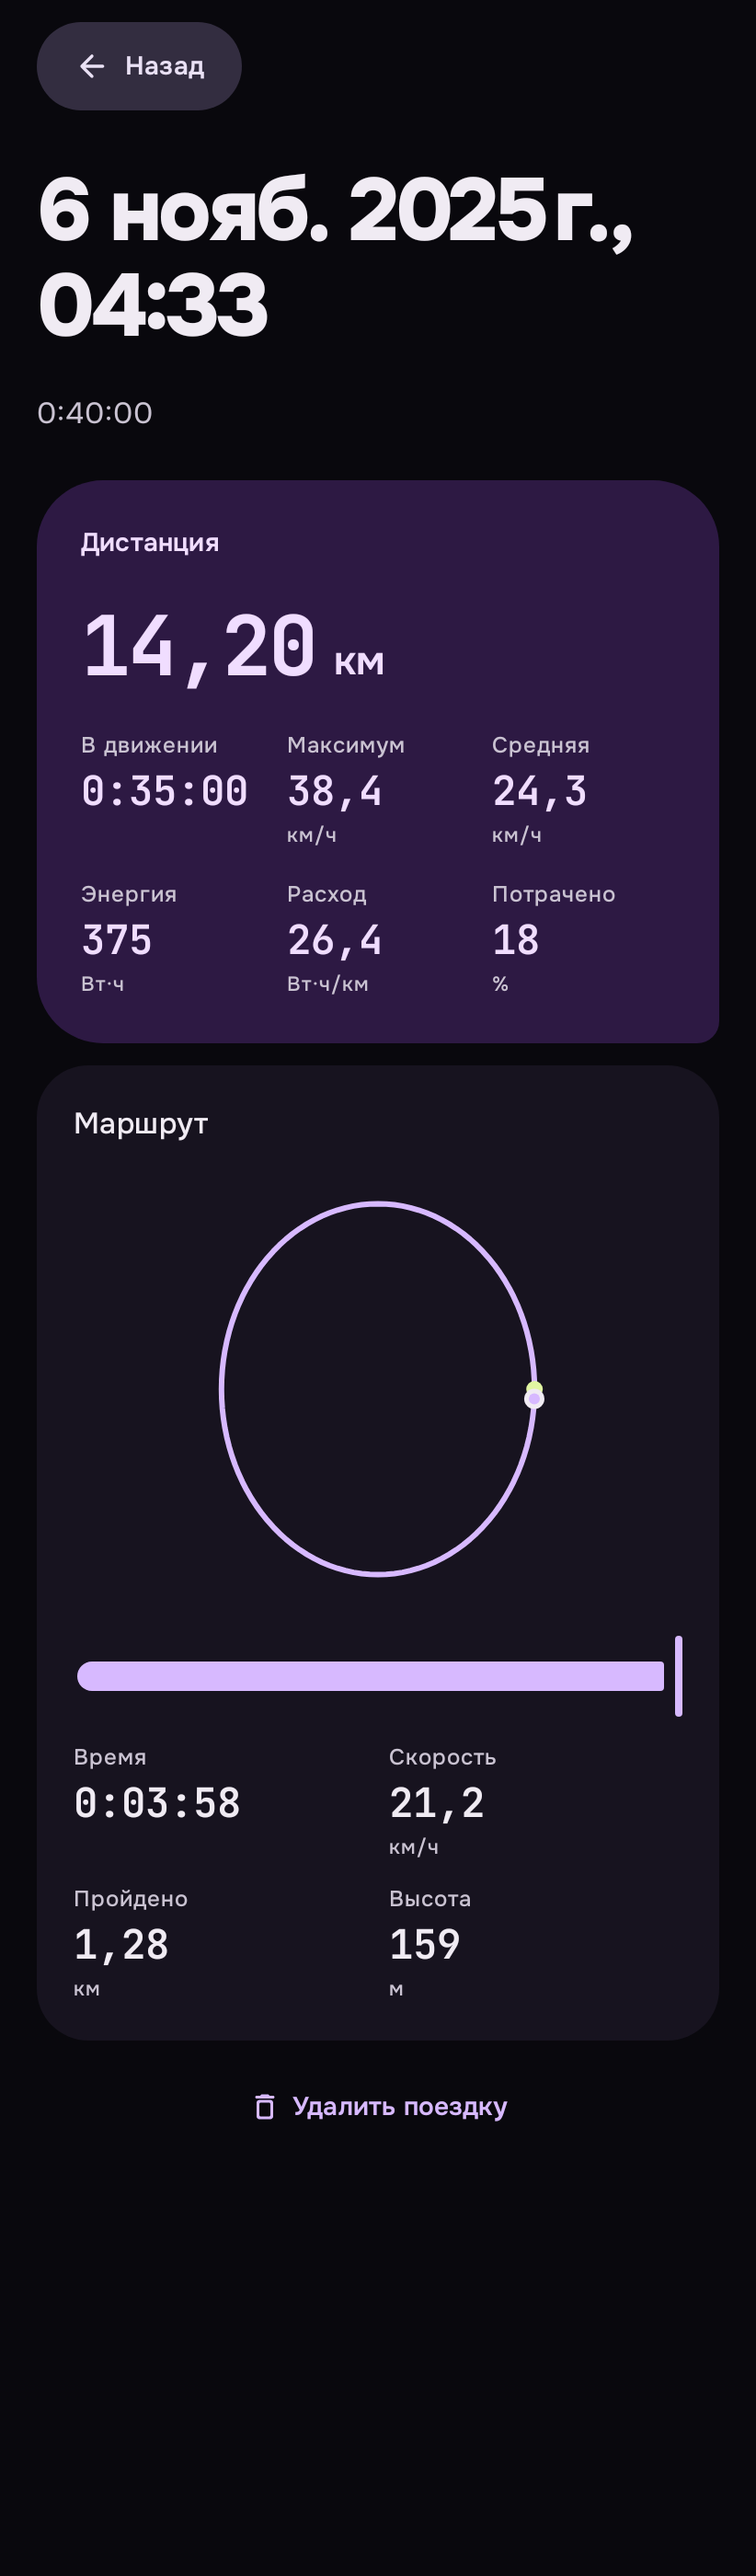
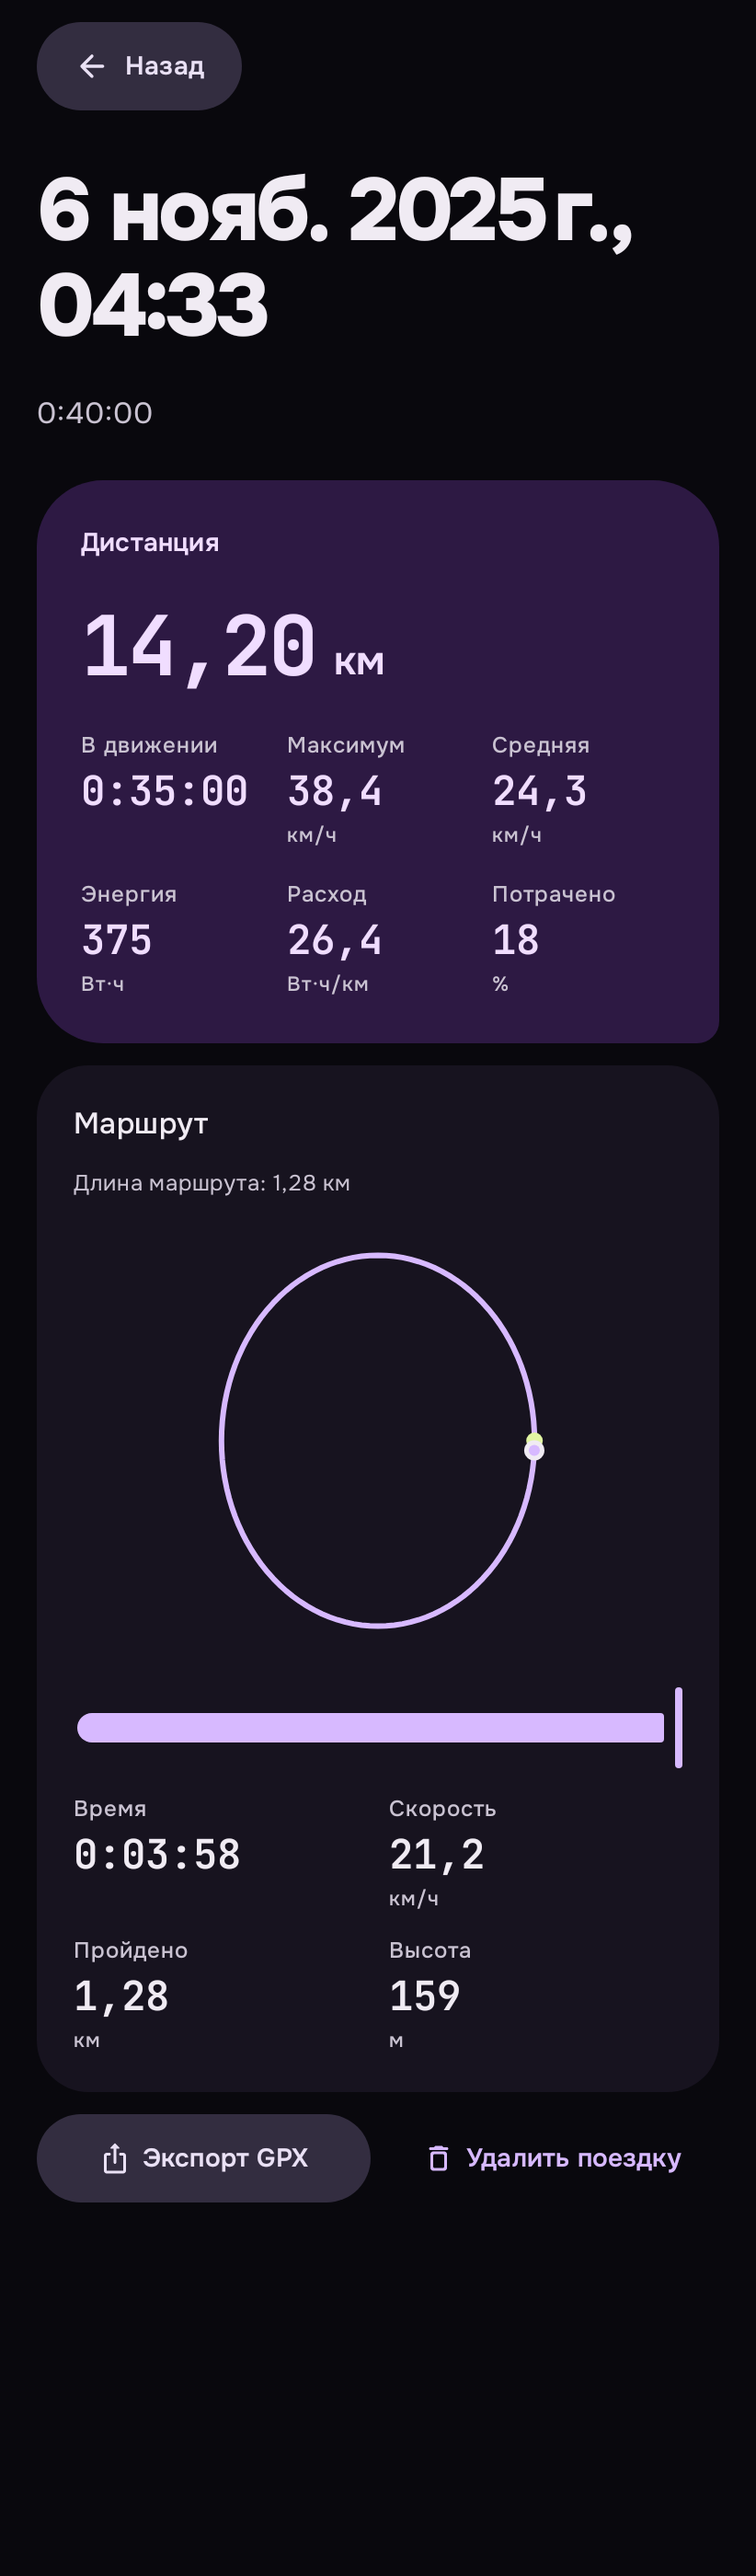
feat(trips): GPX export of the ride track and route length label
- TrackCodec.gpx builds a GPX 1.1 document (absolute times from the ride's wall-clock start,
  name escaped); shared from the ride detail via the system chooser.
- The route card shows the track's own length next to the wheel-counter distance.
- Test for the GPX builder (points, elevation, escaping).

Changed region(s): [[0.0304, 0.4661, 0.9124, 0.87], [0.5474, 0.8079, 0.6691, 0.8389]]

diff --git a/app/src/main/java/com/freecyber/ion/TripDetail.kt b/app/src/main/java/com/freecyber/ion/TripDetail.kt
@@ -29,12 +29,12 @@ import kotlin.math.roundToInt
 @Composable internal fun TripDetailRoute(startedAt: Long?,trips: List<TripSummary>,actions: Actions,onBack: ()->Unit) {
     val trip=startedAt?.let {at -> trips.firstOrNull {it.startedAt==at}}
     if(trip==null) { LaunchedEffect(startedAt) {onBack()}; return }
-    TripDetailScreen(trip,actions.tripTrack(trip.startedAt),{actions.deleteTrip(trip)},onBack)
+    TripDetailScreen(trip,actions.tripTrack(trip.startedAt),{actions.shareGpx(trip)},{actions.deleteTrip(trip)},onBack)
 }
 
 /** One archived ride: the whole ride's stats, its GPS route with a scrubber showing the stats at
- * any moment of the ride, and delete. */
-@Composable internal fun TripDetailScreen(trip: TripSummary,track: List<TrackPoint>,delete: ()->Unit,onBack: ()->Unit) {
+ * any moment of the ride, GPX export and delete. */
+@Composable internal fun TripDetailScreen(trip: TripSummary,track: List<TrackPoint>,shareGpx: ()->Unit,delete: ()->Unit,onBack: ()->Unit) {
     var confirmDelete by rememberSaveable {mutableStateOf(false)}
     val date=remember(trip.startedAt) {DateFormat.getDateTimeInstance(DateFormat.MEDIUM,DateFormat.SHORT).format(Date(trip.startedAt))}
     val cum=remember(track) {Track.cumulativeKm(track)}
@@ -48,6 +48,8 @@ import kotlin.math.roundToInt
             else Surface(color=MaterialTheme.colorScheme.surfaceContainerLow,shape=RoundedCornerShape(IonShapes.xl)) {
                 Column(Modifier.fillMaxWidth().padding(20.dp),verticalArrangement=Arrangement.spacedBy(12.dp)) {
                     Text(stringResource(R.string.trips_track),style=MaterialTheme.typography.titleMedium)
+                    Text(stringResource(R.string.trips_track_length,Track.distanceKm(track).fmt(2)),
+                        style=MaterialTheme.typography.bodySmall,color=MaterialTheme.colorScheme.onSurfaceVariant)
                     TrackCanvas(track,idx,Modifier.fillMaxWidth().height(240.dp))
                     Slider(value=pick,onValueChange={pick=it},valueRange=0f..(track.size-1).coerceAtLeast(1).toFloat())
                     Row(horizontalArrangement=Arrangement.spacedBy(12.dp)) {
@@ -62,9 +64,14 @@ import kotlin.math.roundToInt
                 }
             }
         }
-        item(key="delete",contentType="action") {
-            TextButton(onClick={confirmDelete=true},modifier=Modifier.fillMaxWidth().heightIn(min=48.dp)) {
-                Icon(Icons.Rounded.DeleteOutline,null,Modifier.size(18.dp));Spacer(Modifier.width(6.dp));Text(stringResource(R.string.trips_delete))
+        item(key="actions",contentType="action") {
+            Row(horizontalArrangement=Arrangement.spacedBy(8.dp)) {
+                FilledTonalButton(onClick=shareGpx,enabled=track.size>=2,modifier=Modifier.weight(1f).heightIn(min=48.dp)) {
+                    Icon(Icons.Rounded.IosShare,null,Modifier.size(18.dp));Spacer(Modifier.width(6.dp));Text(stringResource(R.string.trips_export_gpx))
+                }
+                TextButton(onClick={confirmDelete=true},modifier=Modifier.weight(1f).heightIn(min=48.dp)) {
+                    Icon(Icons.Rounded.DeleteOutline,null,Modifier.size(18.dp));Spacer(Modifier.width(6.dp));Text(stringResource(R.string.trips_delete))
+                }
             }
         }
     }

diff --git a/app/src/main/java/com/freecyber/ion/MainActivity.kt b/app/src/main/java/com/freecyber/ion/MainActivity.kt
@@ -20,6 +20,8 @@ import androidx.compose.runtime.*
 import androidx.core.view.WindowCompat
 import androidx.lifecycle.compose.LifecycleResumeEffect
 import androidx.lifecycle.compose.collectAsStateWithLifecycle
+import java.text.DateFormat
+import java.util.Date
 
 class MainActivity : ComponentActivity() {
     private val model: VelaViewModel by viewModels()
@@ -83,7 +85,8 @@ class MainActivity : ComponentActivity() {
                     requestNotifications={ if(Build.VERSION.SDK_INT >= 33) askNotifications() },
                     requestBatteryUnrestricted=::requestBatteryUnrestricted,
                     requestLocation={ location.launch(arrayOf(Manifest.permission.ACCESS_FINE_LOCATION,Manifest.permission.ACCESS_COARSE_LOCATION)) },
-                    resetTrip=model::resetTrip,shareTrips={shareTrips(trips)},deleteTrip=model.history::delete,clearTrips=model.history::clear,
+                    resetTrip=model::resetTrip,shareTrips={shareTrips(trips)},shareGpx=::shareGpx,
+                    deleteTrip=model.history::delete,clearTrips=model.history::clear,
                     tripTrack=model.history::track))
             }
         }
@@ -103,6 +106,16 @@ class MainActivity : ComponentActivity() {
         val send=Intent(Intent.ACTION_SEND).setType("text/csv")
             .putExtra(Intent.EXTRA_SUBJECT,getString(R.string.trips_export_subject))
             .putExtra(Intent.EXTRA_TEXT,TripSummary.csv(trips))
+        startActivity(Intent.createChooser(send,getString(R.string.trips_export)))
+    }
+    /** The ride's GPS track as GPX 1.1; times are derived from the ride's wall-clock start. */
+    private fun shareGpx(trip: TripSummary) {
+        val points=model.history.track(trip.startedAt)
+        if(points.size<2) return
+        val name=DateFormat.getDateTimeInstance(DateFormat.MEDIUM,DateFormat.SHORT).format(Date(trip.startedAt))
+        val send=Intent(Intent.ACTION_SEND).setType("application/gpx+xml")
+            .putExtra(Intent.EXTRA_SUBJECT,getString(R.string.trips_export_subject))
+            .putExtra(Intent.EXTRA_TEXT,TrackCodec.gpx(points,trip.startedAt,name))
         startActivity(Intent.createChooser(send,getString(R.string.trips_export)))
     }
     override fun onStop() { super.onStop(); if(!isChangingConfigurations) model.onBackground() }

diff --git a/core/src/main/kotlin/com/freecyber/ion/Track.kt b/core/src/main/kotlin/com/freecyber/ion/Track.kt
@@ -77,4 +77,18 @@ object TrackCodec {
         }
         return out
     }
+
+    /** GPX 1.1 document for sharing; the relative session time maps onto [startWallMs]. */
+    fun gpx(points: List<TrackPoint>, startWallMs: Long, name: String): String = buildString {
+        appendLine("""<?xml version="1.0" encoding="UTF-8"?>""")
+        appendLine("""<gpx version="1.1" creator="Ion" xmlns="http://www.topografix.com/GPX/1/1">""")
+        appendLine("  <trk><name>${name.replace("&", "&amp;").replace("<", "&lt;").replace(">", "&gt;")}</name><trkseg>")
+        points.forEach { p ->
+            val time = java.time.Instant.ofEpochMilli(startWallMs + p.t).toString()
+            val ele = p.alt?.let { "<ele>${"%.1f".format(java.util.Locale.US, it)}</ele>" } ?: ""
+            appendLine("    <trkpt lat=\"${"%.5f".format(java.util.Locale.US, p.lat)}\" lon=\"${"%.5f".format(java.util.Locale.US, p.lon)}\">$ele<time>$time</time></trkpt>")
+        }
+        appendLine("  </trkseg></trk>")
+        appendLine("</gpx>")
+    }
 }

diff --git a/core/src/test/kotlin/com/freecyber/ion/TrackTest.kt b/core/src/test/kotlin/com/freecyber/ion/TrackTest.kt
@@ -54,4 +54,11 @@ class TrackTest {
         assertEquals(1, TrackCodec.decode("0,5500000,3760000,,").size)
         assertTrue(TrackCodec.decode("x,y,z").isEmpty())
     }
+
+    @Test fun gpxCarriesPointsAndEscapesName() {
+        val gpx = TrackCodec.gpx(listOf(TrackPoint(0, 55.75124, 37.61842, 160.0, 3.0)), 1_762_400_000_000, "Ride <A>")
+        assertTrue("ACTUAL:" + gpx, gpx.contains("""<trkpt lat="55.75124" lon="37.61842"><ele>160.0</ele><time>"""))
+        assertTrue(gpx.contains("Ride &lt;A&gt;"))
+        assertTrue(gpx.trim().endsWith("</gpx>"))
+    }
 }

diff --git a/app/src/main/java/com/freecyber/ion/Actions.kt b/app/src/main/java/com/freecyber/ion/Actions.kt
@@ -13,6 +13,7 @@ internal data class Actions(
     val requestLocation: () -> Unit = {},
     val resetTrip: () -> Unit = {},
     val shareTrips: () -> Unit = {},
+    val shareGpx: (TripSummary) -> Unit = {},
     val deleteTrip: (TripSummary) -> Unit = {},
     val clearTrips: () -> Unit = {},
     /** GPS fixes stored for a finished ride, keyed by its startedAt. */

diff --git a/app/src/test/java/com/freecyber/ion/ScreenshotTest.kt b/app/src/test/java/com/freecyber/ion/ScreenshotTest.kt
@@ -91,7 +91,7 @@ class ScreenshotTest {
             TrackPoint(i * 2_000L, 55.751 + 0.002 * Math.sin(a), 37.618 + 0.003 * Math.cos(a),
                 160.0 + 10 * Math.sin(a), 6.0 + 2 * Math.sin(a))
         }
-        TripDetailScreen(trips.first(), track, {}, {})
+        TripDetailScreen(trips.first(), track, {}, {}, {})
     }
 }
 
